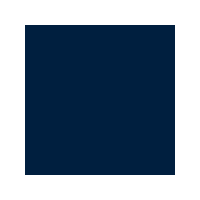
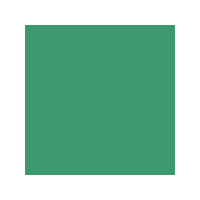
New look

diff --git a/templates/index.html b/templates/index.html
@@ -13,19 +13,19 @@
         <link href="./favicon.png" rel="shortcut icon" type="image/png">
         <title>00:00</title>
     </head>
-    <body class="flex flex-center bg-navy aqua white">
+    <body class="flex flex-center bg-olive">
         <form class="mx-auto center p1">
             <h1 class="h00 h00-responsive">00:00</h1>
             {% for button in buttons %}
                 <div class="sm-col sm-col-6 p1">
-                    <button class="button-outline aqua full-width" type="button" data-interval="{{ button.interval }}" data-message="{{ button.message }}">{{ button.text }}</button>
+                    <button class="button-outline full-width" type="button" data-interval="{{ button.interval }}" data-message="{{ button.message }}">{{ button.text }}</button>
                 </div>
             {% endfor %}
             <div class="sm-col sm-col-12 p3">
                 {{ footer }}
                 <span class="inline-block p1">
                     {% for link in menu %}
-                        <a class="p1 aqua" href="{{ link.url }}">{{ icon(link.icon) }}</a>
+                        <a class="p1 button-transparent black" href="{{ link.url }}">{{ icon(link.icon) }}</a>
                     {% endfor %}
                 </span>
             </div>

diff --git a/css/app.css b/css/app.css
@@ -29,7 +29,7 @@
 
 :root {
     --font-family: var(--monospace-font-family);
-    --border-width: 2px;
+    --border-width: 4px;
     --button-padding-y: var(--space-2);
     --button-font-size: var(--h3);
 }
